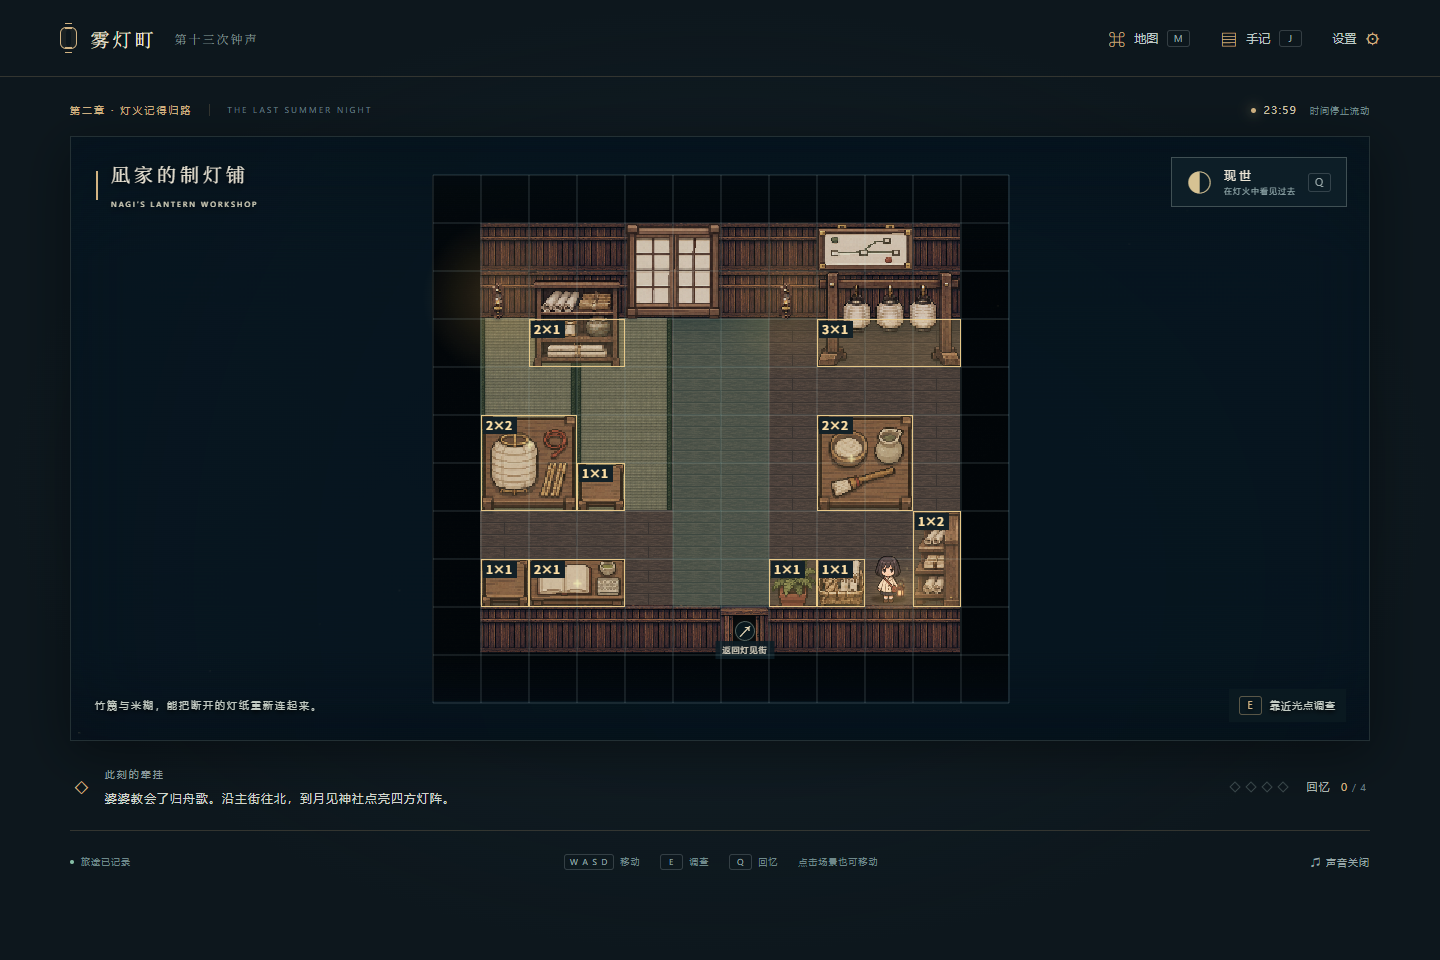
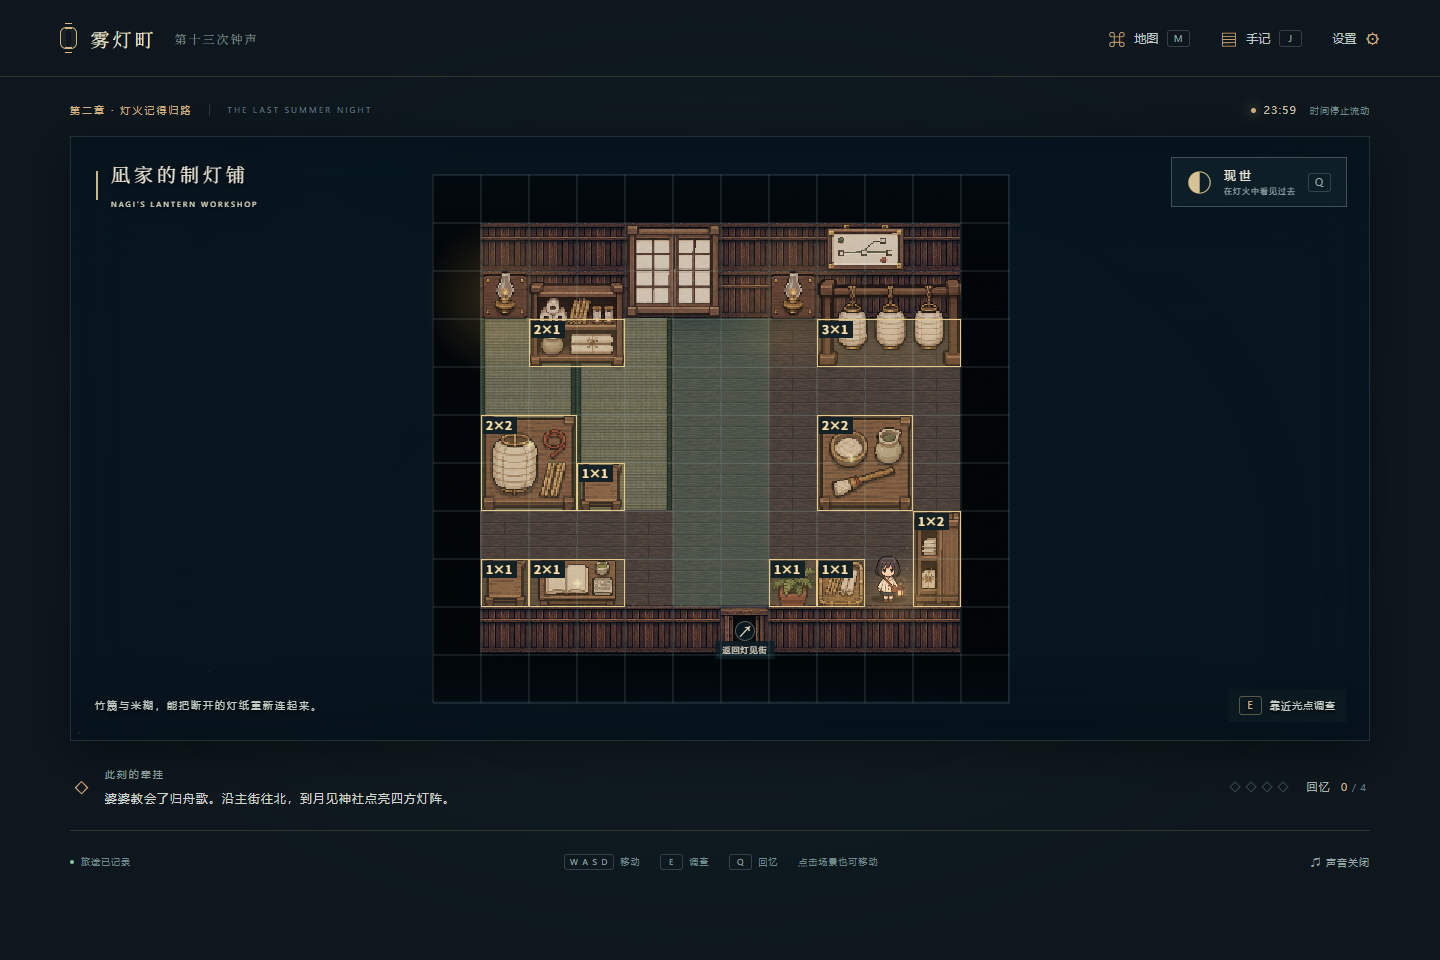
Redraw remaining interior props for grid proportions

diff --git a/world.js b/world.js
@@ -10,8 +10,7 @@
   const craneImage=new Image();craneImage.src='assets/hanging-crane.png';
   const explorationImage=new Image();explorationImage.src='assets/exploration-props.png';
   const explorationCleared=new Image();explorationCleared.src='assets/exploration-props-cleared.png';
-  const interiorFurnishing=new Image();interiorFurnishing.src='assets/interior-furnishings.png';
-  const compactFurnishing=new Image();compactFurnishing.src='assets/compact-furniture.png';
+  const gridInterior=new Image();gridInterior.src='assets/grid-interior-redrawn.png';
   const prefabImage=new Image();prefabImage.src='assets/grid-furniture.png';
   const decorImage=new Image();decorImage.src='assets/grid-decor.png';
   const woodGrain=new Image();woodGrain.src='assets/interior-wood-grain.png';
@@ -119,10 +118,10 @@
   }
   function propFrame(prop,solved=[],progress={}){
     const cleared=(prop.clearedBy&&progress.flags?.[prop.clearedBy])||(prop.onlyItemInEcho&&progress.phase!=='echo');
-    const source=prop.atlas==='decor'?decorImage:prop.atlas==='prefab'?prefabImage:prop.atlas==='compact'?compactFurnishing:prop.atlas==='interior'?interiorFurnishing:prop.atlas==='exploration'?(cleared?explorationCleared:explorationImage):prop.atlas==='world'?worldProps:prop.atlas==='station'?stationKit:prop.atlas==='crane'?craneImage:mountedImage;
-    const columns=['world','exploration','interior','compact','prefab','decor'].includes(prop.atlas)?4:prop.atlas==='crane'?1:2,rows=['interior','prefab','decor'].includes(prop.atlas)?3:prop.atlas==='crane'?1:2;
+    const source=prop.atlas==='gridInterior'?gridInterior:prop.atlas==='decor'?decorImage:prop.atlas==='prefab'?prefabImage:prop.atlas==='exploration'?(cleared?explorationCleared:explorationImage):prop.atlas==='world'?worldProps:prop.atlas==='station'?stationKit:prop.atlas==='crane'?craneImage:mountedImage;
+    const columns=prop.atlas==='gridInterior'?5:['world','exploration','prefab','decor'].includes(prop.atlas)?4:prop.atlas==='crane'?1:2,rows=['prefab','decor'].includes(prop.atlas)?3:prop.atlas==='crane'?1:2;
     const sprite=prop.completedFlag&&progress.flags?.[prop.completedFlag]?prop.completedSprite:prop.gate&&solved.includes(prop.gate)?prop.openSprite:prop.sprite;
-    return {source,columns,rows,sprite};
+    return {source,columns,rows,sprite,cropSprites:prop.grid&&Number.isInteger(prop.completedSprite)?[prop.sprite,prop.completedSprite]:[sprite]};
   }
   function drawPlatform(pen,map,size,originX=0,originY=0){
     if(!stationKit.complete||!stationKit.naturalWidth)return;
@@ -195,7 +194,7 @@
       if(item.painted!==key&&frame.source.complete&&frame.source.naturalWidth){
         const {source,columns,rows,sprite}=frame,sw=source.naturalWidth/columns,sh=source.naturalHeight/rows,pen=node.getContext('2d');
         pen.imageSmoothingEnabled=false;pen.clearRect(0,0,node.width,node.height);
-        if(prop.grid)drawGridFrame(pen,frame,0,0,node.width,node.height,prop.fit);else pen.drawImage(source,(sprite%columns)*sw+4,Math.floor(sprite/columns)*sh+4,sw-8,sh-8,0,0,256,256);item.painted=key;
+        if(prop.grid)drawGridFrame(pen,frame,0,0,node.width,node.height,!!prop.mount);else pen.drawImage(source,(sprite%columns)*sw+4,Math.floor(sprite/columns)*sh+4,sw-8,sh-8,0,0,256,256);item.painted=key;
       }
       if(prop.grid){const g=prop.grid;node.style.left=Math.round((g.x-view.x)*view.tile)+'px';node.style.top=Math.round((g.top-view.y)*view.tile)+'px';node.style.width=g.w*view.tile+'px';node.style.height=g.h*view.tile+'px';return;}
       const pose=root.KiriMaps.attachmentPose(map.id,prop),p=pose?project({x:pose.x-.5,y:pose.bottomY-.92}):project(prop);
@@ -204,22 +203,24 @@
     });
   }
   const frameCropCache=new WeakMap();
-  function drawGridFrame(pen,frame,x,y,width,height,fit){
-    const {source,columns,rows,sprite}=frame;
+  function drawGridFrame(pen,frame,x,y,width,height,mount){
+    const {source,columns,rows,sprite,cropSprites}=frame;
     let entries=frameCropCache.get(source);if(!entries){entries=new Map();frameCropCache.set(source,entries);}
-    let crop=entries.get(sprite);
+    const key=sprite+':'+cropSprites.join(',');let crop=entries.get(key);
     if(!crop){
       const sw=source.naturalWidth/columns,sh=source.naturalHeight/rows,fragment=document.createElement('canvas');fragment.width=Math.floor(sw-8);fragment.height=Math.floor(sh-8);
       const scan=fragment.getContext('2d');scan.imageSmoothingEnabled=false;scan.drawImage(source,(sprite%columns)*sw+4,Math.floor(sprite/columns)*sh+4,sw-8,sh-8,0,0,fragment.width,fragment.height);
       let minX=fragment.width,minY=fragment.height,maxX=-1,maxY=-1;
-      try{const pixels=scan.getImageData(0,0,fragment.width,fragment.height).data;
-        for(let row=0;row<fragment.height;row++)for(let col=0;col<fragment.width;col++)if(pixels[(row*fragment.width+col)*4+3]>96){minX=Math.min(minX,col);minY=Math.min(minY,row);maxX=Math.max(maxX,col);maxY=Math.max(maxY,row);}
+      try{for(const index of cropSprites){
+        const sample=document.createElement('canvas');sample.width=fragment.width;sample.height=fragment.height;const brush=sample.getContext('2d');brush.drawImage(source,(index%columns)*sw+4,Math.floor(index/columns)*sh+4,sw-8,sh-8,0,0,sample.width,sample.height);const pixels=brush.getImageData(0,0,sample.width,sample.height).data;
+        for(let row=0;row<sample.height;row++)for(let col=0;col<sample.width;col++)if(pixels[(row*sample.width+col)*4+3]>96){minX=Math.min(minX,col);minY=Math.min(minY,row);maxX=Math.max(maxX,col);maxY=Math.max(maxY,row);}
+      }
       }catch{minX=0;minY=0;maxX=fragment.width-1;maxY=fragment.height-1;}
-      crop={image:fragment,x:minX,y:minY,w:maxX-minX+1,h:maxY-minY+1};entries.set(sprite,crop);
+      crop={image:fragment,x:minX,y:minY,w:maxX-minX+1,h:maxY-minY+1};entries.set(key,crop);
     }
     if(crop.w<1||crop.h<1)return;
-    if(fit==='contain'){const ratio=Math.min(width/crop.w,height/crop.h);const w=Math.round(crop.w*ratio),h=Math.round(crop.h*ratio);x+=Math.floor((width-w)/2);y+=Math.floor((height-h)/2);width=w;height=h;}
-    pen.drawImage(crop.image,crop.x,crop.y,crop.w,crop.h,x,y,width,height);
+    const fitted=root.KiriFurniture.fitArt(width,height,crop.w,crop.h,mount);
+    pen.drawImage(crop.image,crop.x,crop.y,crop.w,crop.h,x+fitted.x,y+fitted.y,fitted.w,fitted.h);
   }
   function paintBuilding(pen,map,b,size,originX,originY){
     for(let y=b.eaveY;y<b.frontY;y++)for(let x=b.x;x<b.x+b.width;x++)texture(pen,map.tiles[y*map.w+x],x*size-originX,y*size-originY,size,'object');
@@ -291,8 +292,8 @@
         pen.drawImage(foliage,p.sprite%4*sw,Math.floor(p.sprite/4)*sh,sw,sh,(p.x+.5)*size-extent*.5,(p.y+.92)*size-extent*.96,extent,extent);
       }}));
     }
-    map.props.forEach(p=>{const pose=root.KiriMaps.attachmentPose(zone,p),g=p.grid;layers.push({z:g?depth(g.y+(g.d||1)-.92):pose?depth(pose.building.frontY-.92,1):depth(p.y,-1),draw:()=>{const frame=propFrame(p,solved,progress),{source,columns,rows,sprite}=frame;if(!source.complete||!source.naturalWidth)return;if(g){drawGridFrame(pen,frame,g.x*size,g.top*size,g.w*size,g.h*size,p.fit);return;}const sw=source.naturalWidth/columns,sh=source.naturalHeight/rows,extent=p.size*size,x=pose?pose.x:p.x+.5,y=pose?pose.bottomY:p.y+.92;pen.drawImage(source,sprite%columns*sw+4,Math.floor(sprite/columns)*sh+4,sw-8,sh-8,x*size-extent*.5,y*size-extent*.985,extent,extent);}});});
+    map.props.forEach(p=>{const pose=root.KiriMaps.attachmentPose(zone,p),g=p.grid;layers.push({z:g?depth(g.y+(g.d||1)-.92):pose?depth(pose.building.frontY-.92,1):depth(p.y,-1),draw:()=>{const frame=propFrame(p,solved,progress),{source,columns,rows,sprite}=frame;if(!source.complete||!source.naturalWidth)return;if(g){drawGridFrame(pen,frame,g.x*size,g.top*size,g.w*size,g.h*size,!!p.mount);return;}const sw=source.naturalWidth/columns,sh=source.naturalHeight/rows,extent=p.size*size,x=pose?pose.x:p.x+.5,y=pose?pose.bottomY:p.y+.92;pen.drawImage(source,sprite%columns*sw+4,Math.floor(sprite/columns)*sh+4,sw-8,sh-8,x*size-extent*.5,y*size-extent*.985,extent,extent);}});});
     layers.sort((a,b)=>a.z-b.z).forEach(layer=>layer.draw());
   }
-  root.KiriRenderer = { view, resize, draw, project, unproject, thumbnail, depth, assetsReady:()=>[image,foliage,mountedImage,worldProps,stoneGrain,stationKit,craneImage,explorationImage,explorationCleared,interiorFurnishing,compactFurnishing,prefabImage,decorImage,woodGrain,tatamiImage].every(i=>i.complete&&i.naturalWidth>0)&&!!root.KiriLighting?.assetsReady() };
+  root.KiriRenderer = { view, resize, draw, project, unproject, thumbnail, depth, assetsReady:()=>[image,foliage,mountedImage,worldProps,stoneGrain,stationKit,craneImage,explorationImage,explorationCleared,gridInterior,prefabImage,decorImage,woodGrain,tatamiImage].every(i=>i.complete&&i.naturalWidth>0)&&!!root.KiriLighting?.assetsReady() };
 })(globalThis);

diff --git a/furniture.js b/furniture.js
@@ -2,25 +2,25 @@
 (function(root,factory){const api=factory();if(typeof module==='object'&&module.exports)module.exports=api;else root.KiriFurniture=api;})(globalThis,function(){
   'use strict';
   const catalog={
-    lampCabinet:{atlas:'exploration',sprite:0,w:2,d:1,h:2,clearedBy:'lampFound',focus:[.72,.28]},
+    lampCabinet:{atlas:'gridInterior',sprite:0,w:2,d:1,h:2,completedFlag:'lampFound',completedSprite:1,focus:[.72,.22]},
     dutyDesk:{atlas:'prefab',sprite:2,w:2,d:1,h:1,focus:[.5,.3]},
     parcelShelf:{atlas:'prefab',sprite:9,w:2,d:1,h:1,completedFlag:'parcelTaken',completedSprite:10,focus:[.5,.4]},
     maintenanceBench:{atlas:'prefab',sprite:4,w:2,d:1,h:1,focus:[.5,.35]},
     serviceCounter:{atlas:'prefab',sprite:3,w:3,d:1,h:1},
     waitingBench:{atlas:'prefab',sprite:0,w:3,d:1,h:1},
     sideBench:{atlas:'prefab',sprite:1,w:1,d:3,h:3,facing:'west'},
-    ticketCubby:{atlas:'interior',sprite:2,w:1,d:1,h:2},
-    luggage:{atlas:'interior',sprite:3,w:1,d:1,h:1},
-    wallClock:{atlas:'world',sprite:6,w:1,d:0,h:1,mount:'back-wall',fit:'contain'},
-    wallLamp:{atlas:'interior',sprite:7,w:1,d:0,h:1,mount:'back-wall',fit:'contain'},
+    ticketCubby:{atlas:'gridInterior',sprite:2,w:1,d:1,h:2},
+    luggage:{atlas:'gridInterior',sprite:3,w:1,d:1,h:1},
+    wallClock:{atlas:'gridInterior',sprite:4,w:1,d:0,h:1,mount:'back-wall'},
+    wallLamp:{atlas:'gridInterior',sprite:5,w:1,d:0,h:1,mount:'back-wall'},
     repairTable:{atlas:'prefab',sprite:5,w:2,d:2,h:2,completedFlag:'helpedNagi',completedSprite:6,focus:[.5,.3]},
     pasteTable:{atlas:'prefab',sprite:7,w:2,d:2,h:2,focus:[.35,.45]},
     notesTable:{atlas:'prefab',sprite:8,w:2,d:1,h:1,focus:[.5,.5]},
-    paperShelf:{atlas:'interior',sprite:4,w:2,d:1,h:2},
-    dryingRack:{atlas:'interior',sprite:5,w:3,d:1,h:2},
+    paperShelf:{atlas:'gridInterior',sprite:6,w:2,d:1,h:2},
+    dryingRack:{atlas:'gridInterior',sprite:7,w:3,d:1,h:2},
     stool:{atlas:'prefab',sprite:11,w:1,d:1,h:1},
-    stockBasket:{atlas:'interior',sprite:8,w:1,d:1,h:1},
-    sideShelf:{atlas:'compact',sprite:6,w:1,d:2,h:2,facing:'west'},
+    stockBasket:{atlas:'gridInterior',sprite:8,w:1,d:1,h:1},
+    sideShelf:{atlas:'gridInterior',sprite:9,w:1,d:2,h:2,facing:'west'},
     wardrobe:{atlas:'decor',sprite:0,w:2,d:1,h:2},
     lowCupboard:{atlas:'decor',sprite:1,w:2,d:1,h:1},
     screen:{atlas:'decor',sprite:2,w:2,d:1,h:2},
@@ -49,5 +49,10 @@
     const prop={...def,id,kind,grid,x:x+Math.floor(def.w/2),y:y+(def.mount?def.h-1:def.d-1)};
     map.props.push(prop);return prop;
   }
-  return {catalog,place};
+  // One scale for both axes; floor objects rest on their cell baseline.
+  function fitArt(width,height,sourceWidth,sourceHeight,mount=false){
+    const scale=Math.min(width/sourceWidth,height/sourceHeight),w=sourceWidth*scale,h=sourceHeight*scale;
+    return {x:(width-w)/2,y:mount?(height-h)/2:height-h,w,h};
+  }
+  return {catalog,place,fitArt};
 });

diff --git a/docs/GRID-INTERIOR-REDRAW.md b/docs/GRID-INTERIOR-REDRAW.md
@@ -1,0 +1,55 @@
+# 室内旧家具重绘
+
+2026-11-16。两间室内已移除旧的 exploration / interior / compact / world 家具引用，全部使用按格子设计的 prefab、decor、gridInterior 三套图集。旧 PNG 作为历史素材保留，不再被室内家具使用。
+
+## 新图集
+
+内置 image_gen 生成的透明 PNG：`assets/grid-interior-redrawn.png`，5 列 × 2 行，共 10 帧。原始输出直接复制到项目，保留透明通道。
+
+| 序号 | 素材 | 地面占格 | 绘制格数 |
+| --- | --- | --- | --- |
+| 0 / 1 | 引灯柜，有灯 / 空柜 | 2 × 1 | 2 × 2 |
+| 2 | 票件格柜 | 1 × 1 | 1 × 2 |
+| 3 | 旅客行李 | 1 × 1 | 1 × 1 |
+| 4 | 方形墙钟 | 墙面 | 1 × 1 |
+| 5 | 方底板壁灯 | 墙面 | 1 × 1 |
+| 6 | 纸料架 | 2 × 1 | 2 × 2 |
+| 7 | 晾灯架 | 3 × 1 | 3 × 2 |
+| 8 | 方形纸料篮 | 1 × 1 | 1 × 1 |
+| 9 | 侧向纸柜 | 1 × 2 | 1 × 2 |
+
+## 比例与状态
+
+所有室内图集统一等比缩放到各自格框，禁止横纵分开拉伸。落地家具水平居中、底部对齐占地基线；挂件在墙格内居中。缩略地图也采用同一规则。灯笼、钟面、纸卷与柜门五金保持素材原本比例。
+
+有状态的家具将各帧透明边界合并后统一裁切，因此引灯取走、包裹领取、纸灯修好时不会因留白不同而改变整件家具的比例或位置。柜子占地及房间通行路线保持原样。
+
+## 验收
+
+- 35 项规则检查通过，包含室内只允许新图集、等比缩放数学检查、全地板连通及调查点可达性。
+- 浏览器核对两间屋子的家具格框与实际位置，保存正常预览与占地示意。
+- 开场探索专项复查取灯、点灯、包裹交付、修灯、存档恢复和室内进出。
+
+## 完整生成提示词
+
+参考 `assets/grid-furniture.png` 仅用于统一色调和像素风格，不作为编辑目标。
+
+```text
+Use case: stylized-concept.
+Asset type: production sprite ATLAS for a classic 2D Japanese tile-grid exploration RPG. EXACTLY FIVE COLUMNS by TWO ROWS, TEN equal SQUARE cells. The canvas aspect ratio must be 5:2. One COMPLETE isolated sprite per cell with generous transparent gutters. Image1 is STYLE/PALETTE REFERENCE ONLY, not an edit target.
+Primary request: REDRAW the remaining legacy interior furnishings as deliberate rectangular grid modules. Flat orthographic top-down/tile-RPG view, consistent chunky 16-bit pixel clusters, muted walnut-brown wood, aged ivory paper, tiny brass accents. No smooth realistic rendering, no isometric diagonals, no blurry texture. All furniture edges parallel to horizontal and vertical axes, with shallow visible top surfaces on upright cabinets. Each item's VISIBLE bounding aspect ratio is specified below, different from its floor footprint. Draw at the correct aspect from scratch; it must never need to be squeezed to fit a square. ALL round objects such as paper lanterns, clock faces, handles and rolled paper retain natural circular/oval shapes. One shared pixel scale; restrained detail.
+ROW 1, left to right:
+0: 2x1 ground-footprint low wooden double-door LANTERN CABINET, VISIBLE 2x2 square including a single small unlit ivory paper hand lantern resting on the right half of its top. Cabinet is WIDE and LOW; lantern is compact, about one-quarter of total sprite width, not oversized. Top left empty. Crisp straight doors, tiny brass ring handles. No flame/glow. Whole composition square.
+1: EXACT SAME cabinet as0, identical width, height, doors, top board, colours and position, but lantern removed and top EMPTY. VISIBLE same 2x2 square. These two sprites must match for a quest state swap.
+2: tall NARROW wooden ticket/pigeonhole cabinet, ground1x1, VISIBLE1x2 rectangle. Two columns and four rows of square cubbies, a few small cream folded tickets/envelopes, two modest bottom drawers. Ensure square cubbies, un-stretched joinery. Visible width:height=1:2.
+3: compact traveller luggage cluster, ground1x1, VISIBLE1x1 square, two small worn brown suitcases and a folded ivory cloth bundle, neat overhead arrangement, natural handle/buckle proportions.
+4: old square wooden wall clock, VISIBLE1x1 SQUARE silhouette, with a small ROUND cream clock face and tiny brass pendulum window. No readable numerals. Clock face must remain circular.
+ROW 2, left to right:
+5: small indoor wall-mounted brass oil lamp on a small SQUARE dark wooden mounting plaque, VISIBLE1x1, compact natural teardrop glass chimney and tiny amber flame, no floor pole, no beam/light halo. Square plaque fits one wall tile.
+6: paper-material storage shelf, ground2x1, VISIBLE2x2 square, low broad walnut frame with two shelves holding naturally ROUND cream paper rolls, bamboo ribs, two short thread spools and a small pottery jar. No giant long columns. Width:height1:1.
+7: lantern drying rack, ground3x1, VISIBLE3x2 wide rectangle. Horizontal beam and two vertical posts, THREE small naturally rounded ivory paper lanterns hung evenly with short strings. Each lantern occupies less than one-third width and is taller than wide, not squashed. Feet stay inside rectangle. Width:height3:2.
+8: shallow SQUARE bamboo supply basket, ground1x1,VISIBLE1x1. Top-down square rim and woven base, a few short bamboo strips and two short paper rolls arranged neatly inside; no broad flat front elevation. Square basket.
+9: side-facing tall paper cupboard, ground1x2,VISIBLE1x2 vertical rectangle. Long axis aligned VERTICALLY, narrow dark wood shelf opening toward the LEFT, two shelves with compact paper bundles visible on left edge and straight side panel on right. True side orientation, not a sideways stretched front cabinet. Width:height1:2.
+Constraints: genuine transparent alpha background, no floor, no cast shadow outside silhouettes, no scenery, no characters, no grid lines, no labels, no borders, no readable words, no duplicate extra sprites. EXACT 5x2 equal-cell layout. Keep all ten sprites fully within their own cells. Every visible shape designed for its stated grid proportions.
+```
+

diff --git a/docs/GRID-FURNITURE.md b/docs/GRID-FURNITURE.md
@@ -14,7 +14,7 @@
 
 放置函数会拒绝小数坐标、越界、地面家具重叠和墙面挂饰重叠。调查点和闪光点从同一组家具坐标计算；取灯、取包裹和修好纸灯仍会切换素材状态。
 
-渲染时先裁去图集单元的透明留白，再绘制到每格 32 像素的固定画布，关闭插值。预制件填充其事先设计好的整格边界；细长壁灯和墙钟保留纵横比。侧向长椅和屏风由独立侧向素材表现。
+渲染时先裁去图集单元的透明留白，再等比绘制到每格 32 像素的固定画布，关闭插值。所有预制件保留原始纵横比，落地家具贴齐占格底边；墙面挂件居中。状态切换共用合并裁切边界，避免柜体或桌面改变尺寸。侧向长椅和屏风由独立侧向素材表现。
 
 ## 常用模块
 
@@ -44,6 +44,8 @@
 ## 新生成素材
 
 两张图集均由内置 image_gen 生成，保留 RGBA 透明通道，4 列 × 3 行。序号从 0 开始，按行排列。
+
+后续新增第三张 `assets/grid-interior-redrawn.png`，将仍在使用的旧引灯柜、票件柜、行李、纸料架、晾灯架、侧柜、纸料篮、壁灯和墙钟全部重绘。映射及新提示词见 [室内旧家具重绘](GRID-INTERIOR-REDRAW.md)。
 
 - `assets/grid-furniture.png`：横长椅、侧长椅、值班桌、直柜台、整灯台、破损修灯台、修好修灯台、调糊台、笔记桌、有包裹台、空包裹台、方凳。
 - `assets/grid-decor.png`：双门储物柜、低橱柜、正向屏风、侧向屏风、蕨类盆栽、山茶盆栽、路线板、山水挂画、双扇障子窗、单扇障子窗、伞架、挂衣钩。

diff --git a/docs/QA.md b/docs/QA.md
@@ -4,7 +4,7 @@
 
 ## 核心规则
 
-`npm test`：34 项检查通过，其中 26 项覆盖核心规则、物件、布局、整格家具、道具条件、NPC 分阶段帮助及旧室内存档迁移，8 项覆盖移动和转向。
+`npm test`：35 项检查通过，其中 27 项覆盖核心规则、物件、布局、整格家具、素材比例、道具条件、NPC 分阶段帮助及旧室内存档迁移，8 项覆盖移动和转向。
 
 验证了章节先决条件、禁止跳关、错误答案不改变进度、四种机关答案、联动齿轮可解性、回忆重复调查、四种结局条件、存档序列化、损坏存档恢复，以及格子地图中的墙体、书架、水面碰撞。逐一检查了六处区域与两处室内的每个人物、机关、回忆、线索与出口，确保均存在从出生点出发、不穿过障碍的相邻格路径。
 
@@ -89,3 +89,7 @@
 - 旧室内布局存档迁移到安全入口，保留故事与收集进度。
 
 实现与图集提示词见 [整格家具记录](GRID-FURNITURE.md)。
+
+## 旧家具重绘与等比显示
+
+两处室内原先保留的九类旧素材全部重绘，共十帧（含取灯后的空柜），接入 `grid-interior-redrawn.png`。测试要求所有室内家具只能引用三套格子版图集。所有家具使用统一等比缩放，验证图像比例不变、仍包含于格框且落地基线不变；状态帧共用裁切范围。两间屋子的实景与占地预览重新生成，浏览器无脚本和资源错误；开场探索专项再次通过。提示词与映射见 [重绘记录](GRID-INTERIOR-REDRAW.md)。

diff --git a/README.md b/README.md
@@ -84,6 +84,8 @@ npm start
 
 生成提示词、图集排列与资源清单见 [素材记录](docs/ART-PROMPTS.md)。素材均保存在仓库内，运行时不请求远程图片或字体。
 
+室内家具已全部换为格子版图集，旧柜架、行李、壁灯和墙钟另行重绘。所有家具保留图片原始比例，按整格边界等比显示；取灯、领取包裹和修灯时保持家具尺寸与位置稳定。见 [室内重绘素材与提示词](docs/GRID-INTERIOR-REDRAW.md)。
+
 ## 文件
 
 | 文件 | 用途 |
